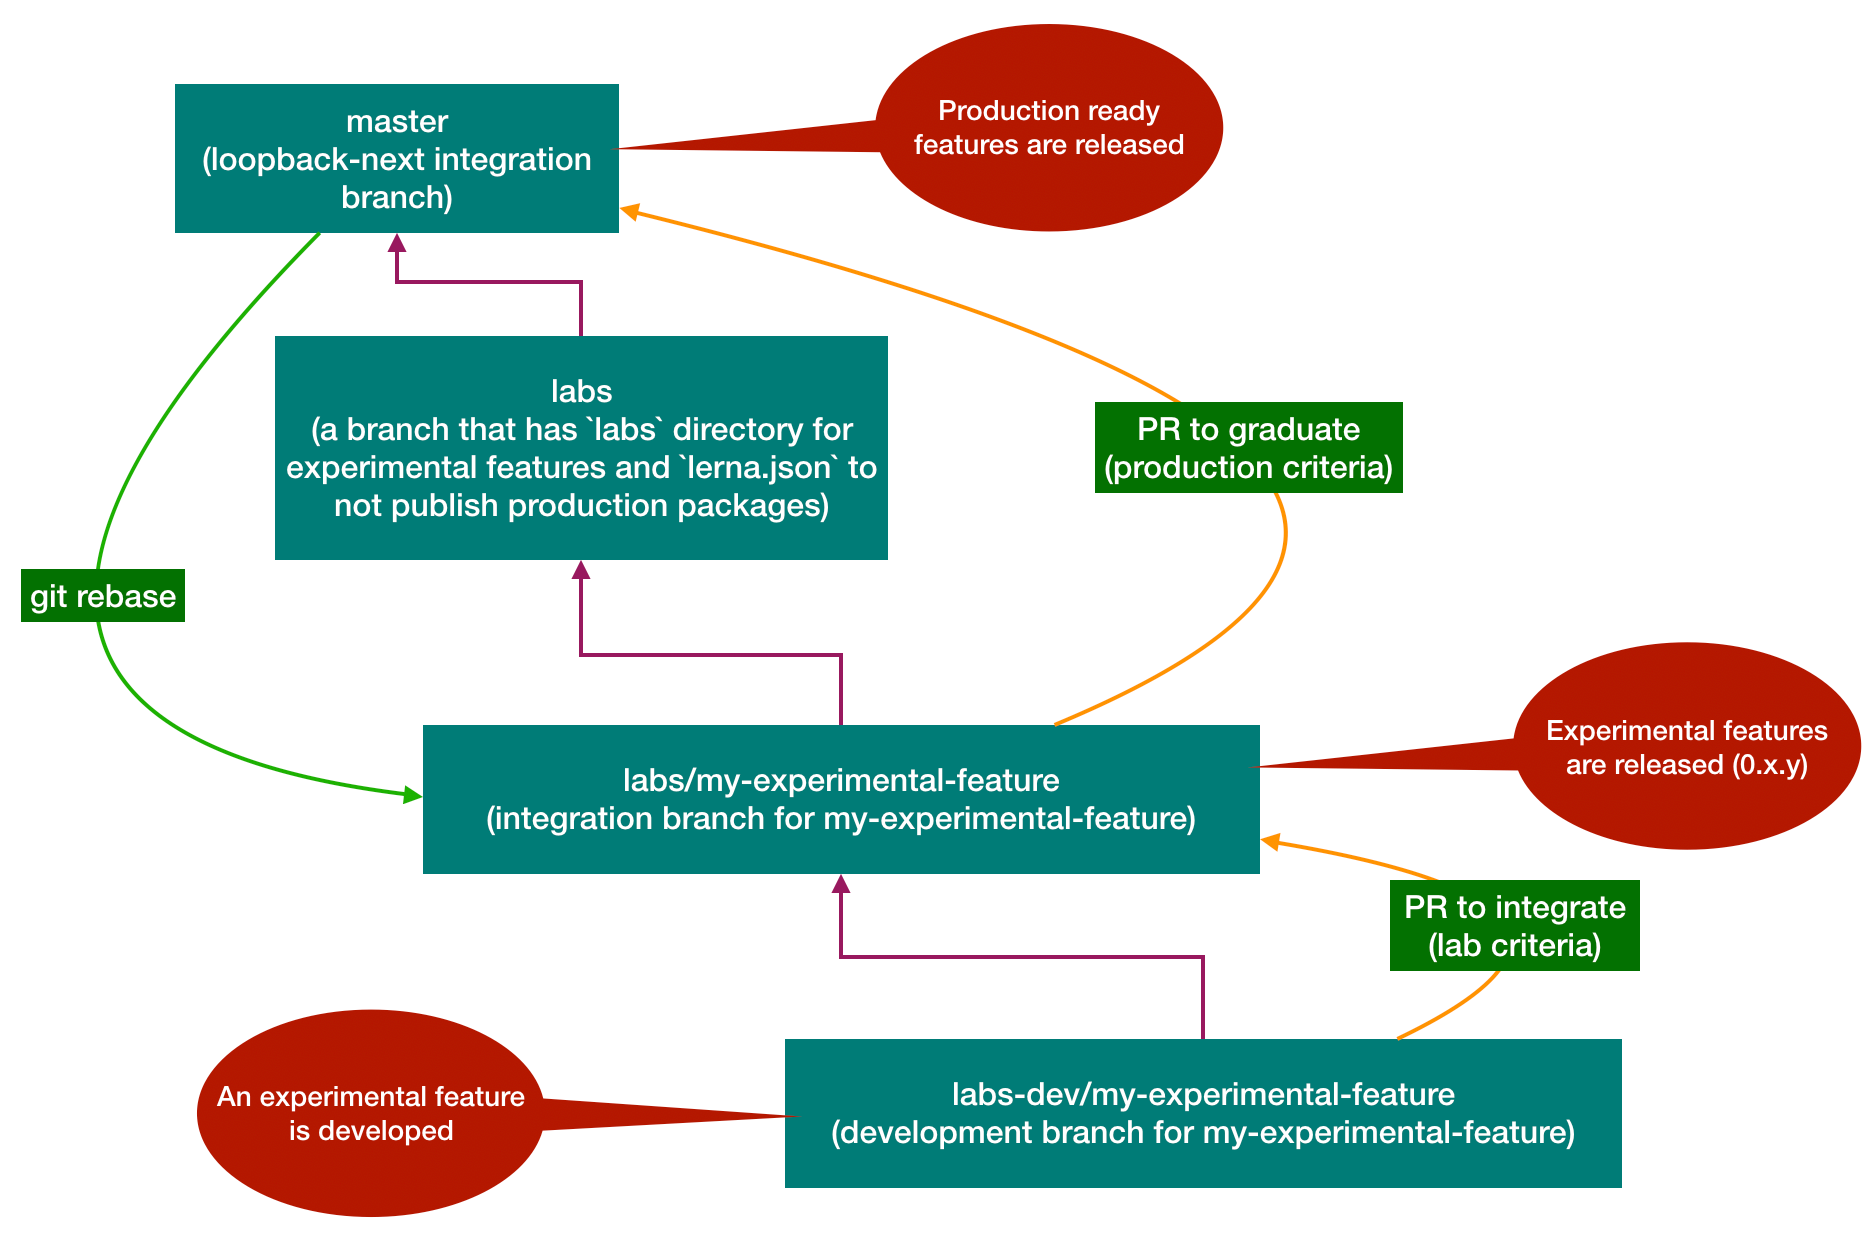
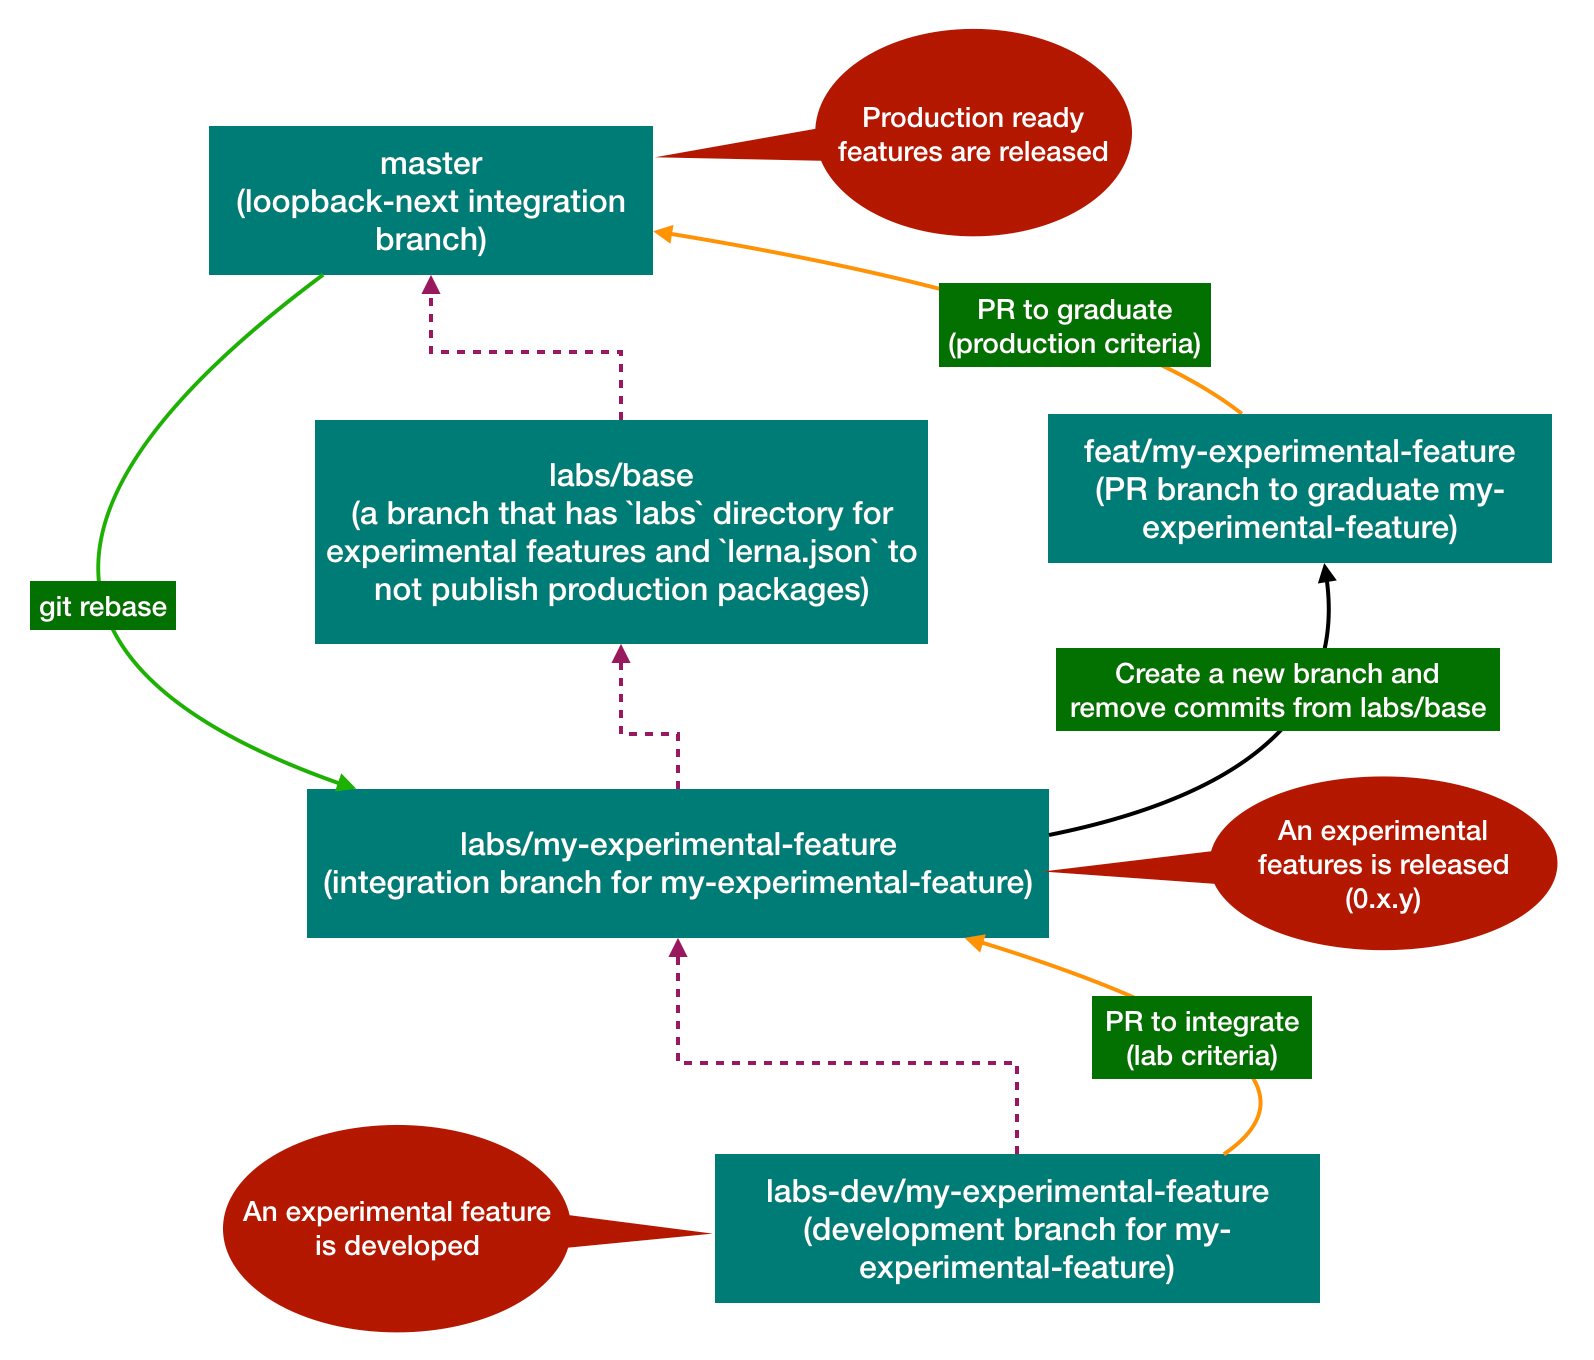
chore: update instruction for labs

diff --git a/LABS.md b/LABS.md
@@ -15,23 +15,41 @@ features along with regular ones in `loopback-next` repository.
 
 ### Work on an experimental feature
 
-1. Set up local git repository for an experiment feature
+1. **Set up local git repository for an experiment feature**
+
+- 1.1 Create experimental branch and dev branch
 
 ```sh
 cd loopback-next
 git fetch --all
-git checkout labs && git checkout -b lab/<my-experimental-feature> && git checkout -b labs-dev/<my-experimental-feature>
+git checkout labs/base && git checkout -b labs/<my-experimental-feature> && git checkout -b labs-dev/<my-experimental-feature>
 git rebase origin/master
 ```
 
-We add a shell script to provision an experimental feature.
+Or you can execute the following shell script to provision your experimental feature. It does the same setup as the commands above.
 
 ```sh
 cd loopback-next
 ./bin/setup-lab.sh <my-experimental-feature>
 ```
 
-2. Work on an experimental feature
+- 1.2 Enable tests in `/labs/*` only
+
+To enable the test in `/labs/*` only and skip running unrelated tests in the production ready packages, you can change the mocha test script to
+
+```
+{
+  "scripts": {
+    "mocha": "node packages/build/bin/run-mocha \"labs/*/dist/__tests__/**/*.js\"
+  }
+}
+```
+
+in the root directory's `package.json` file.
+
+Now all the setup of the experimental branch have been finished! You can push the local changes and start to create PRs from the development branch.
+
+2. **Work on an experimental feature**
 
 ```sh
 cd loopback-next
@@ -40,7 +58,9 @@ git checkout labs-dev/<my-experimental-feature>
 
 You can now start to make changes, commit them, and push to remote.
 
-3. Rebase the experimental feature branch against master
+3. **Rebase the experimental feature branch against master**
+
+To get the latest change from master, you can rebase your dev branch:
 
 ```
 cd loopback-next
@@ -50,11 +70,19 @@ git rebase origin/master
 git push --force-with-lease
 ```
 
-4. Create PR for an experimental feature
+If you want to have a clean commit history in your PR without the noisy commits from the master branch, make sure branch `/labs/base` is rebased against master and `/labs/<my-experimental-feature>` is rebased against `/labs/base`.
 
-- Use `lab/<my-experimental-feature>` as the branch
+4. **Release for an experimental feature**
+
+- Use `0.x.y` versioning scheme
+- Use `labs/<my-experimental-feature>` as the branch
+
+*The release script to be created*
 
 ### Graduate an experimental feature
 
-1. Create a PR from `lab/<my-experimental-feature>` against `master`
-2. Follow the code review process to land the PR
+1. Create a PR from `labs/<my-experimental-feature>` against `master`
+2. Remove the lab setup commits from `/labs/base`
+3. Update the entries/links in [add a new package](https://github.com/strongloop/loopback-next/blob/master/docs/site/DEVELOPING.md#adding-a-new-package)
+4. Update the `CODEOWNERS` file in the root folder: add the graduated package and owners' names
+5. Follow the code review process to land the PR
